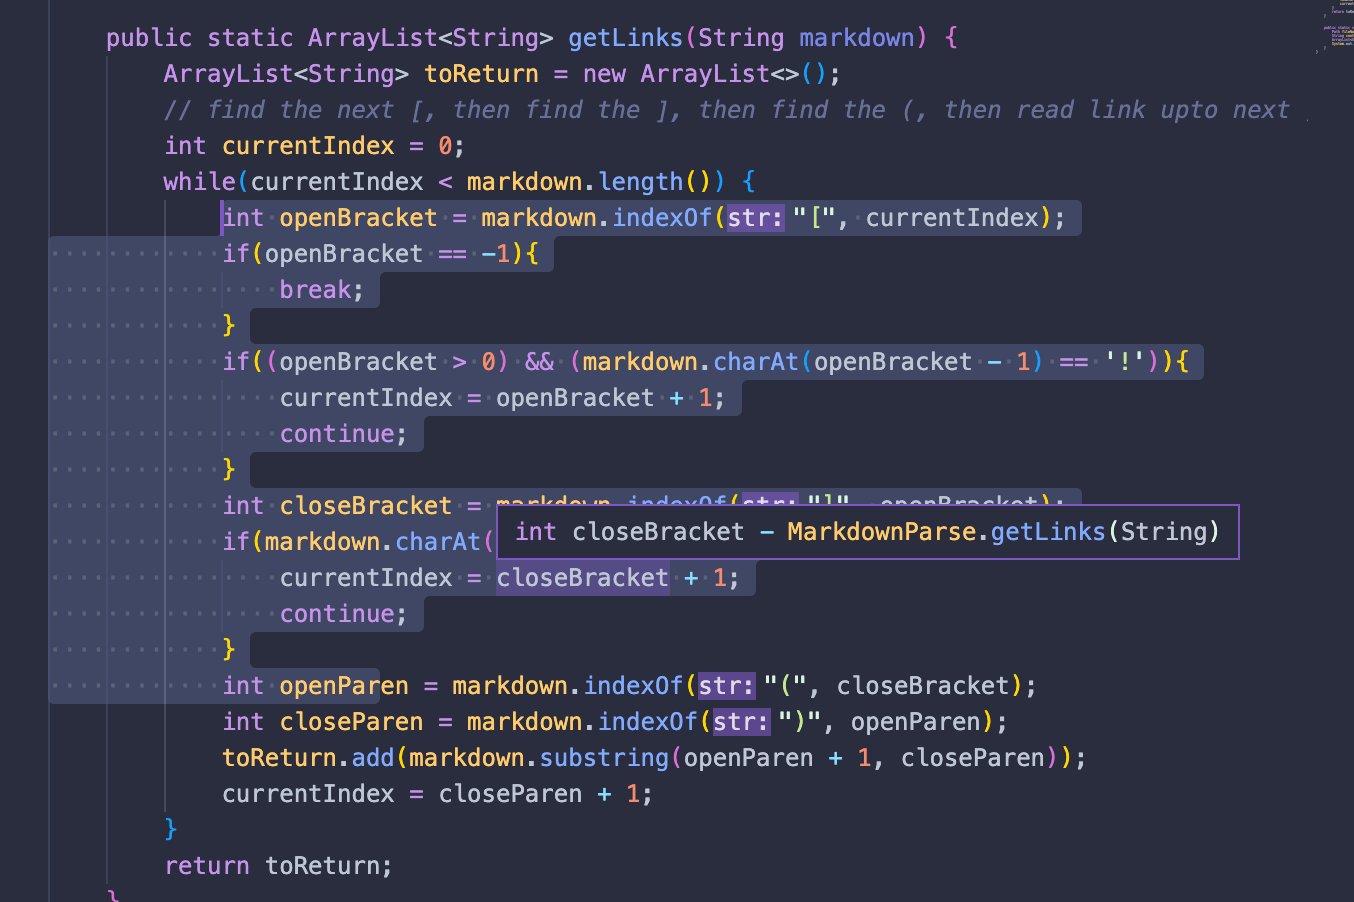
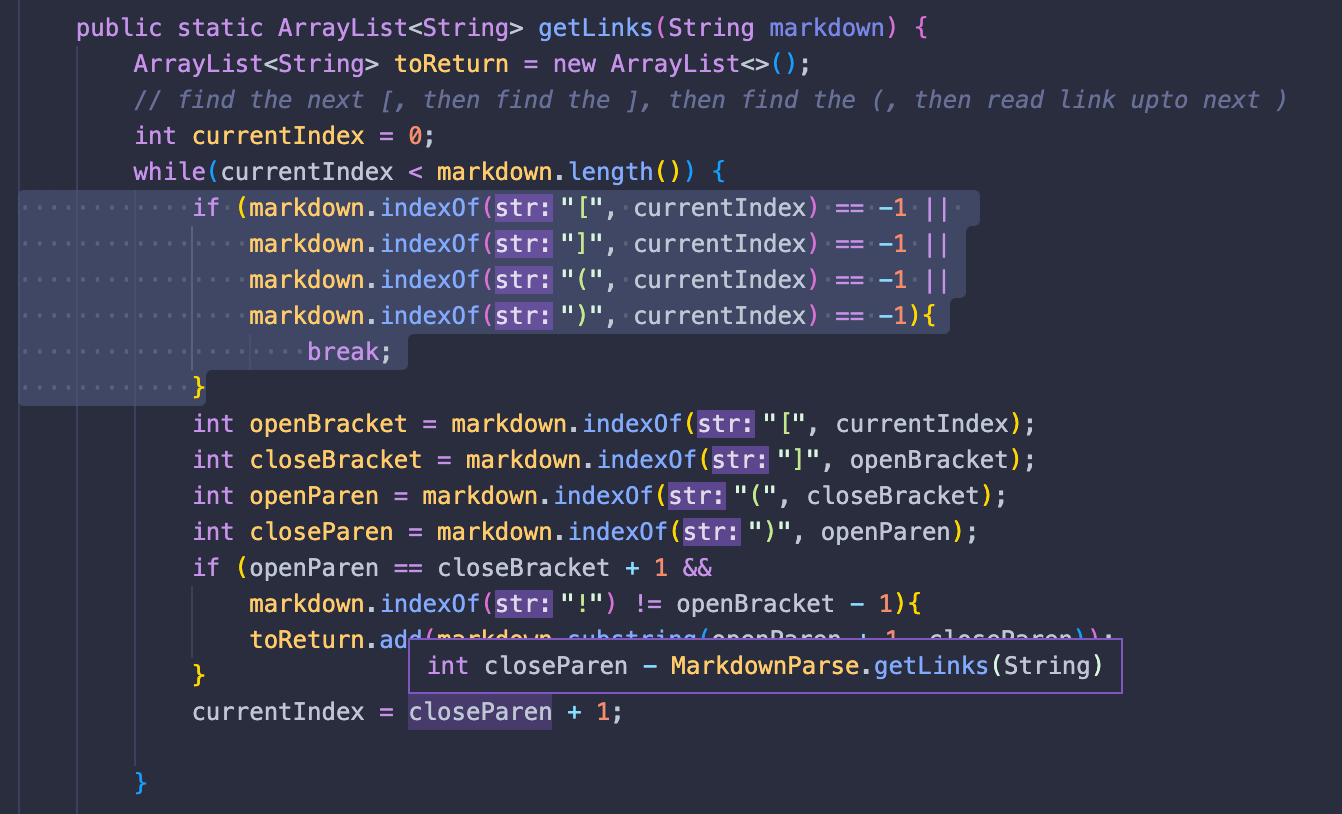
fixed lab report 5

diff --git a/week10-labreport5/week10-lab-report-5.md b/week10-labreport5/week10-lab-report-5.md
@@ -3,23 +3,25 @@
 This is Jenny Quach Lab Report 4 for week 8. My PID is A16796954.
 
 ## STRATEGY
-- The strategy I used is that I print all the test from the provided markdown and find the one look stand out and different, then compare it with my own code. I used the map in my main function to get all the results print out for the links in the provided markdown. And on my end, I just replace or create a new file to test out and see the result based on my markdown
+- The strategy I used is that I print all the test from the provided markdown and and my code with the provided test files. For the provided code, I used the map in my main function to get all the results print out for the links in the provided markdown by using key and the associated value of the key. Then I check for implementation that is stand out and since I know how my implementation work, I can quickly spot out the special cases. Then compared back to my code. And on my end, I will just import the file into my folder and then run the test file to check if the results is different or not
 
-## TEST 1
-- [test-file-link](/587.md)
-- For this file. the provided implement is inccorrect because it is an image link not a url link so it should print out `[]` not print out a blank array `[/url "title"]`.
-- epxected output: `[]`
-- ![out put for my actual output](/images/test1Own.png)
-- ![out put for provided actual output](/images/test1Provided.png)
-- I think the problem of the provided code is that it couldn't keep track of the "!". In the function getLinked where it take in markdown as argument, we should included something that also take care of the notation "!"
-- ![fixed](/images/test1Fixed.png)
+## TEST 580
+- This is the link to the test file: [test-file-link](/580.md)
+- Expected Output is `[]` Since there is it is an image link and no link provided, the output should be blank as shown in vscode preview as below: ![image](/images/test1ExpectedOutput.png)
+- The output from the provided implementation is `[/url]`: ![image](/images/test1Provided.png)
+- The out put for my implemenatation is `[]`: ![image](/images/test1Own.png)
+- From the observation above, we can conclude that for test file 580, my implementation provided the correct output while the implementation from the provided code provided the wrong output.
+- I think the problems with the provided code is that it didn't track for the notation `!` in front of the open bracket `[` which indicate that the link is an image not an url link. Therefore, it will just take anything that have the format `[]()` eventhough there is some special notation in front it. 
+- I believe that we can fix this by adding an code block with an if statement inside the loop when we try to read through to the whole file. We can add an if statement to check if there is any `!` to be specific or if the is any special notation before the open bracket to see if it is a url link or just an image link. 
+![image](/images/test1Fixed.png)
 
-## TEST 2
-- [test-file-link](/511.md)
-- For this file. the provided implement is correct and my implement is wrong. becuase this is a url just with many [] inside but it is all corresponding to each other. Therefore it should be `[/uri]` not `[]`
-- expected implement: `[/uri]`
 
-- ![out put for my actual output](/images/test2Own.png)
-- ![out put for provided actual output](/images/test2Provided.png)
-- I think my problem is that i dont check the duplicates [] and it mess up the code. In the loop, i should have check if the [] is corresponding to each other or not
-- ![fixed](/images/test2Fixed.png)
+## TEST 511
+- This is the link to the test file: [test-file-link](/511.md)
+- Expected Output is `[/uri]` as shown in vscode preview as below: ![image](/images/test2ExpectedOutput.png)
+- The output from the provided implementation is `[/uri]`: ![image](/images/test2Provided.png)
+- The out put for my implemenatation is `[]`: ![image](/images/test2Own.png)
+- From the observation above, we can conclude that for test file 511, my the provided markdown parse code give the correct output while the implementation from my group give the wrong output. 
+- I think the bug with my implementation is that I didn't check for the open and close bracket correctly. For my code, it will just break out of the loop when it noticed a bracket that did fit into the template `[]()`. However, tittle of the link should work as long as the open bracket `[` have a correct corresponding close bracket `]`. Despite having some bracket in between, as long as all the bracket are correctly correspponding to each other, there should be no conflict. 
+- To fix this bug, I will have to implement a algorithm to check and find the corresponding close and open pair of brackets and make sure they are correctly ordered. I will need to fix the if else statement where I break the loop when there is invalid bracket (when bracket is not founded in the correct order).
+![image](/images/test2Fixed.png)

diff --git a/week10-labreport5/580.md b/week10-labreport5/580.md
@@ -1,0 +1,2 @@
+![](/url)
+
